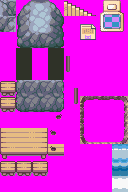
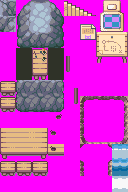
Hideout tiles and stuff

diff --git a/include/constants/vars.h b/include/constants/vars.h
@@ -201,8 +201,8 @@
     VAR_CROBAT_HIDEOUT_STATEs
     // 0: Beginning
     // 1: Seen by grunt when entering hideout
-    // 3: Jumped by 4 grunts at once, beat them
-    // 4: Beat the Golbat admins
+    // 2: Jumped by 4 grunts at once, beat them
+    // 3: Beat the Golbat admins
 */
 #define VAR_CROBAT_HIDEOUT_STATE                         0x408B
 #define VAR_LITTLEROOT_HOUSES_STATE_BRENDAN              0x408C
